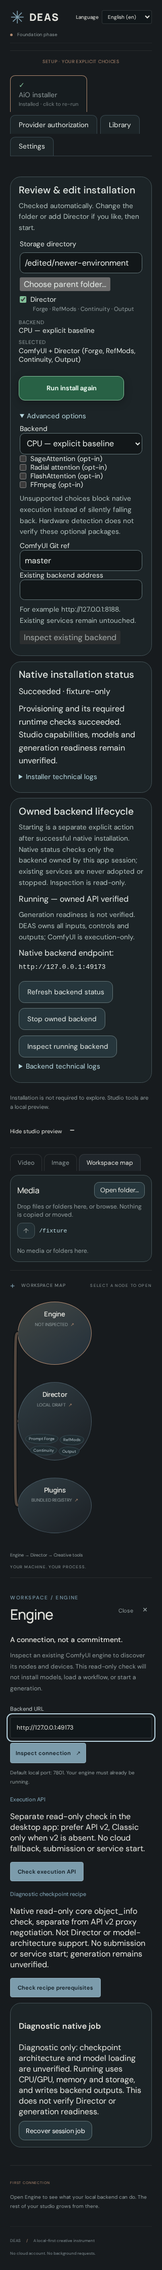
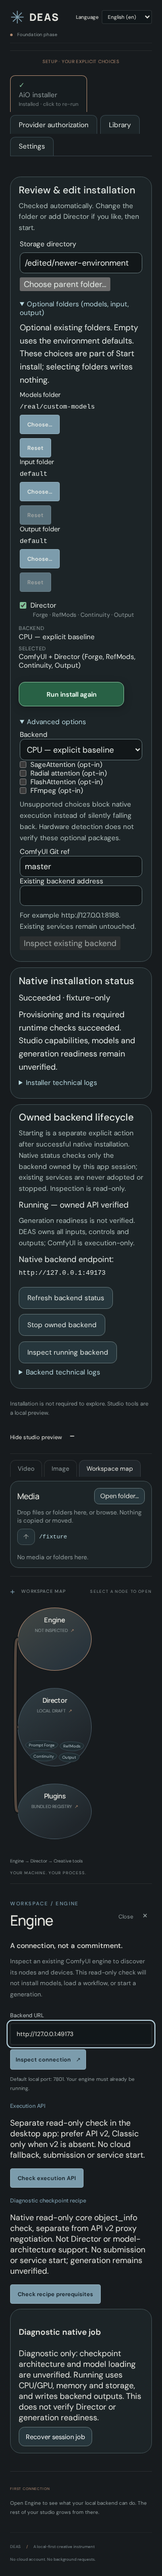
docs: refresh README for 0.1.8 tab-strip UI with current fixture screenshots

Changed region(s): [[0.0625, 0.0, 0.9062, 0.9971], [0.6562, 0.0, 0.75, 0.0312], [0.5625, 0.0, 0.5938, 0.0312]]

diff --git a/README.md b/README.md
@@ -1,10 +1,10 @@
 # DEAS — Dark Engine AI Studio
 
-DEAS is a Rust/Tauri desktop studio with a single-page neural interface for ComfyUI and DaSiWa tools. Connected organic feature blobs show what belongs together; selecting a blob opens its controls within the page.
+DEAS is a Rust/Tauri desktop studio for ComfyUI and DaSiWa tools. Setup is a tab strip — AiO installer, Provider authorization, Library, Settings — with a persistent install review panel. The studio preview shows a workspace map of connected feature blobs; selecting a blob opens its controls within the page.
 
 ## Desktop preview
 
-![DEAS native automatic setup](assets/deas-native-automatic-review.png)
+![Setup tab strip with the install review panel — browser fixture](assets/deas-automatic-fixture-1440.png)
 
 ## Setup path
 
@@ -12,7 +12,13 @@ Setup is one automatic path. A top tab strip carries the Installer tab (pulsing 
 
 Shared `NeuralBlob`, `NeuralPath`, `NeuralGraph` and reusable `NeuralIncludedFeatures` components serve both setup and studio features. Roads offer light, moving cat paws and off modes, with reduced-motion support. See [primitive ownership and references](docs/NEURAL-PRIMITIVES.md).
 
-![Compact capability staircase and history](assets/deas-director-included-1440.png)
+![Install-to-studio handoff with the owned backend running — browser fixture](assets/deas-studio-handoff-fixture-1440.png)
+
+## Studio preview
+
+A successful approved installation opens the studio automatically with **Video**, **Image** and **Workspace map** tabs. The media library loads images and videos via drop or native folder browsing, previews them in browser tabs, and lists exported job outputs. The workspace map shows the Engine, Director and plugin blobs with selectable road animation (Light · Paws · Off). Diagnostic jobs, read-only API checks and the media library are live; inference and editing controls arrive in separate steps.
+
+![Media library with a loaded preview — browser fixture](assets/deas-media-start-1440.png)
 
 ## All-in-one vision — early alpha
 
@@ -26,7 +32,7 @@ Current alpha: **0.1.8** — automatic setup with tab-strip review, installation
 
 The first milestone builds the desktop shell, interactive studio, trusted built-in feature registry and read-only ComfyUI discovery. This is **not yet the completed AiO installer or a generation-ready Director replacement**. Unavailable execution functions are identified in the interface rather than simulated.
 
-The intended AiO product ports capabilities from the [DaSiWa ComfyUI Installer](https://github.com/darksidewalker/dasiwa-comfyui-installer) into DEAS's native Rust engine. It does not bundle or launch an external Go installer. ComfyUI is the baseline; Director is one explicitly selected package including Prompt Forge, RefMods, Continuity and Output. Small passive microbubbles show these included parts; they are not separate optional choices. Successful approved installation opens the studio automatically; installed components need no additional enable action. Starting the owned backend remains explicit. Once native status reports it running, the studio automatically uses its exact endpoint without an extra connection step or automatic inspection/generation. Suggested/Detected are translated badges only, without recommendation connection lines. Hardware recommendations remain editable and do not authorize installation; the final Start install action does. UX languages are data-only plugins with decentralized per-module text resources. Python/PyTorch continue to execute workflows; driver compatibility and model licenses remain explicit prerequisites.
+The intended AiO product ports capabilities from the [DaSiWa ComfyUI Installer](https://github.com/darksidewalker/dasiwa-comfyui-installer) into DEAS's native Rust engine. It does not bundle or launch an external Go installer. ComfyUI is the baseline; Director is one explicitly selected package including Prompt Forge, RefMods, Continuity and Output — shown as a muted subline under the Director checkbox, not as separate optional choices. Successful approved installation opens the studio automatically; installed components need no additional enable action. Starting the owned backend remains explicit. Once native status reports it running, the studio automatically uses its exact endpoint without an extra connection step or automatic inspection/generation. Suggested/Detected are translated badges only, without recommendation connection lines. Hardware recommendations remain editable and do not authorize installation; the final Start install action does. UX languages are data-only plugins with decentralized per-module text resources. Python/PyTorch continue to execute workflows; driver compatibility and model licenses remain explicit prerequisites.
 
 ## Execution-only backend
 
@@ -34,7 +40,7 @@ DEAS owns every feature selection, input/settings control, media reference, job 
 
 ### API discovery and diagnostic compilation
 
-The desktop Engine panel now offers a separate read-only execution-API check. It probes the documented v2 proxy health and protected job listing; Classic queue inspection is selected only when the optional v2 health route returns 404. Authentication, redirects, malformed responses and incompatible contracts remain visible failures. Browser preview fails closed for this native-owned operation. A pure versioned diagnostic checkpoint text-to-image compiler validates explicit intent and supplied verified node/model/sampler/scheduler lists, then builds a deterministic immutable API graph. The Engine panel now offers an explicit native prerequisite check and compile preview using the core `object_info` API. Exact observed checkpoint/sampler/scheduler choices feed DEAS-owned diagnostic controls; missing nodes/models block compilation, and changing the endpoint discards stale evidence. Defaults are 512×512, 20 steps, CFG 7 and seed 0. This is not a Director/video recipe or checkpoint-architecture guarantee. Dynamic Director recipes and real model-generation acceptance remain unfinished.
+The Engine panel offers a separate read-only execution-API check. It probes the documented v2 proxy health and protected job listing; Classic queue inspection is selected only when the optional v2 health route returns 404. Authentication, redirects, malformed responses and incompatible contracts remain visible failures. Browser preview fails closed for this native-owned operation. A pure versioned diagnostic checkpoint text-to-image compiler validates explicit intent and supplied verified node/model/sampler/scheduler lists, then builds a deterministic immutable API graph. The Engine panel offers an explicit native prerequisite check and compile preview using the core `object_info` API. Exact observed checkpoint/sampler/scheduler choices feed DEAS-owned diagnostic controls; missing nodes/models block compilation, and changing the endpoint discards stale evidence. Defaults are 512×512, 20 steps, CFG 7 and seed 0. This is not a Director/video recipe or checkpoint-architecture guarantee. Dynamic Director recipes and real model-generation acceptance remain unfinished.
 
 ### Diagnostic jobs and PNG outputs
 
@@ -48,19 +54,21 @@ Safe cancellation, actual model-generation acceptance and native-webview media a
 
 ![Diagnostic job preview — test fixture, not model-generated](assets/deas-jobs-fixture-1440.png)
 
-## Optional downloads and provider authorization
+## Library, downloads and provider authorization
 
-Separate inline plugins are accessible from setup and the studio plugin area, independently of baseline installation. A strict native TOML catalog feeds the UI; add resources/providers in `src-tauri/downloads/default.toml` or explicitly import an additive catalog for the current session. Browse HF users/model/dataset repositories, CivitAI creators/models, GitHub accounts/repository files, configured HTTPS direct/index sources or an explicitly configured loopback Ollama tags endpoint. Repository listings lead to explicit repository browsing; Ollama tags never imply a pull or downloadable file.
+Provider authorization and the Library are setup tabs; optional downloads are also reachable from the studio plugin area, independently of baseline installation. A strict native TOML catalog feeds the UI; add resources/providers in `src-tauri/downloads/default.toml` or explicitly import an additive catalog for the current session. Browse HF users/model/dataset repositories, CivitAI creators/models, GitHub accounts/repository files, configured HTTPS direct/index sources or an explicitly configured loopback Ollama tags endpoint. Repository listings lead to explicit repository browsing; Ollama tags never imply a pull or downloadable file.
 
 Provider tokens are optional and origin-bound. Session memory is default; OS-store persistence/restoration is explicit and never falls back to plaintext. Downloads use their own immutable plan, native parent-folder selection, a new destination subfolder and separate unchecked consent. Staged files are inert data, not installed models or executed workflows. Linux scratch HTTP transfers and UI/IPC fixtures are tested; live authenticated providers, real OS-store operation, large-download resume and Windows writes remain unverified/unsupported. See [catalog examples, contracts and limits](docs/DOWNLOAD-PLUGINS.md).
 
-The Library sorts catalog cards and loaded file rows by version publication date (newest first), or by name (A–Z). Undated entries come last. Bundled dates are a catalog snapshot; live CivitAI user/search requests ask for newest results. Name sorting covers loaded results, not unseen pages. The 18+ badge reflects the provider’s model classification, not the preview image rating. Opening a CivitAI model lists individual files across its versions (up to 50); quantizations are selected explicitly, never downloaded together automatically. Conflicting destination filenames block the plan instead of overwriting files.
+![Provider authorization tab — browser fixture](assets/deas-downloads-fixture-1440.png)
+
+The Library sorts catalog cards and loaded file rows by version publication date (newest first), or by name (A–Z). Undated entries come last. Bundled dates are a catalog snapshot; live CivitAI user/search requests ask for newest results. Name sorting covers loaded results, not unseen pages. CivitAI browsing defaults to **SFW only**; switching to **+NSFW (18+)** requires an explicit age confirmation, and a base-model filter narrows model lists. The 18+ badge reflects the provider's model classification, not the preview image rating. Opening a CivitAI model lists individual files across its versions (up to 50); quantizations are selected explicitly, never downloaded together automatically. Conflicting destination filenames block the plan instead of overwriting files.
 
 ## Folder selection and relocation
 
 Native folder selection resolves symlink aliases to their real existing directories before planning; installation execution still refuses symlink substitutions. The first installation review offers optional existing models, input and output folders. They remain an in-memory draft until Start install authorizes the immutable plan; no folder settings or data are written by selection alone.
 
-Relocation currently supports Linux; other platforms reject movement without changing files. After installation, Settings separates saving paths from the explicitly selected **Move files & save folders** action. Moving checks all changed trees for conflicting filenames before copying; it never overwrites a destination file. Close other applications using these folders, stop the owned backend and finish downloads first. Copies are verified before settings are switched and originals removed. Errors preserve original data; cleanup warnings identify retained duplicates. Symlinks inside relocated trees and overlapping trees are rejected rather than followed.
+Relocation currently supports Linux; other platforms reject movement without changing files. After installation, the Settings tab separates saving paths from the explicitly selected **Move files & save folders** action. Moving checks all changed trees for conflicting filenames before copying; it never overwrites a destination file. Close other applications using these folders, stop the owned backend and finish downloads first. Copies are verified before settings are switched and originals removed. Errors preserve original data; cleanup warnings identify retained duplicates. Symlinks inside relocated trees and overlapping trees are rejected rather than followed.
 
 ## Language plugins
 
